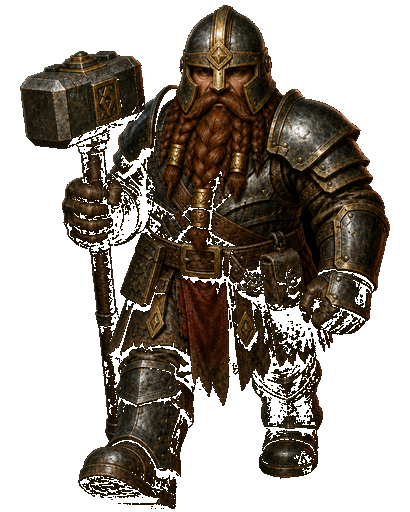
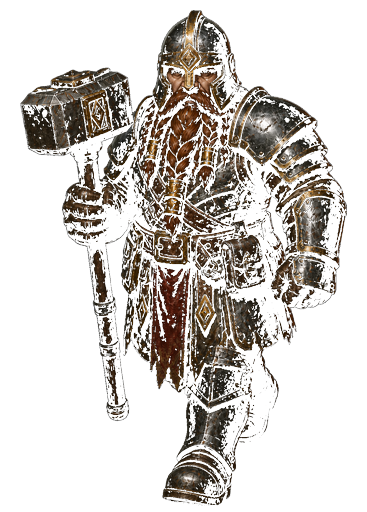
Paint Macar w1/w2 as the same facing, opposite foot (#129)
East and front walk pairs no longer swap cameras mid-stride.
w2 is a new plant on the same face, not a mirror of w1. Flip
stays heading-only on the blit.

diff --git a/src/combat/WalkFacePair.test.js b/src/combat/WalkFacePair.test.js
@@ -1,0 +1,40 @@
+'use strict';
+/**
+ * Limner walk-face gate: w1 and w2 are the same camera / facing.
+ * Only the planted boot swaps. Flip is engine-only, never a mirrored sheet.
+ * Run: node src/combat/WalkFacePair.test.js
+ */
+const fs=require('fs');
+const path=require('path');
+const {spawnSync}=require('child_process');
+
+let failed=0;
+function assert(cond, msg){
+  if(!cond){ failed++; console.error('FAIL  '+msg); }
+  else console.log('ok    '+msg);
+}
+
+const root=path.join(__dirname,'../..');
+const html=fs.readFileSync(path.join(root,'index.html'),'utf8');
+
+assert(/w1 \/ w2 are the same painted facing/.test(html),
+  'walkCycleKey documents same-face opposite-foot');
+assert(/function wantsSpriteFlip\(e\)\{/.test(html) && /moveHeadingSX\(e\) < -0\.02/.test(html),
+  'flip stays heading-only on the blit');
+assert(/blitFacing\(g,img,dx,dy,W,H,wantsSpriteFlip\(e\)\)/.test(html),
+  'heading flip is applied once per pose on the blit');
+
+const py=spawnSync('python3',[path.join(__dirname,'WalkFacePair_sheets.py')],{
+  encoding:'utf8', cwd:root
+});
+if(py.status!==0){
+  failed++;
+  console.error(py.stdout||'');
+  console.error(py.stderr||'');
+  console.error('FAIL  sheet pair python gate');
+}else{
+  process.stdout.write(py.stdout||'');
+}
+
+if(failed){ console.error('\n'+failed+' failed'); process.exit(1); }
+console.log('\nwalk face-pair checks passed');

diff --git a/index.html b/index.html
@@ -245,6 +245,8 @@ function gaitAdvance(e,dt){ e.gait=(e.gait||0)+Math.max(0,dt)*3.35; }
    and ping-ponged Macar left/right on a straight D walk. Flip is heading
    only (west = east sheet flipped once), never per frame. */
 function walkCycleKey(e, stem){
+  /* w1 / w2 are the same painted facing. Only the planted boot swaps.
+     Flip is heading-only on the blit (wantsSpriteFlip) — never by swapping sheets. */
   if(!stem) return null;
   const w1=sprReady(stem+'_w1')?stem+'_w1':null;
   const w2=sprReady(stem+'_w2')?stem+'_w2':null;

diff --git a/src/combat/WalkFacePair_sheets.py b/src/combat/WalkFacePair_sheets.py
@@ -1,0 +1,45 @@
+#!/usr/bin/env python3
+"""w1/w2 must share a facing. w2 is not a horizontal flip of w1."""
+from pathlib import Path
+from PIL import Image
+import numpy as np
+import sys
+
+root=Path(__file__).resolve().parents[2]
+failed=0
+
+def assert_(cond, msg):
+    global failed
+    if not cond:
+        failed+=1
+        print('FAIL  '+msg)
+    else:
+        print('ok    '+msg)
+
+def mask(path, size=(96,128)):
+    im=Image.open(path).convert('RGBA').resize(size, Image.Resampling.BILINEAR)
+    a=np.array(im)
+    return (a[:,:,3]>40).astype(np.float32)
+
+def corr(a,b):
+    a=a-a.mean(); b=b-b.mean()
+    d=(np.sqrt((a**2).sum())*np.sqrt((b**2).sum())) or 1.0
+    return float((a*b).sum()/d)
+
+def check_pair(a_name, b_name, label):
+    a=root/'assets'/'creatures'/a_name
+    b=root/'assets'/'creatures'/b_name
+    assert_(a.is_file() and b.is_file(), label+': both sheets on disk')
+    ma,mb=mask(a),mask(b)
+    same=corr(ma,mb)
+    flipped=corr(np.fliplr(ma), mb)
+    assert_(same>flipped, f'{label}: unflipped pair matches more than a mirror ({same:.3f}>{flipped:.3f})')
+    assert_(flipped<0.55, f'{label}: w2 is not a painted mirror of w1 (flip corr {flipped:.3f})')
+    assert_(same>0.55, f'{label}: w1/w2 share a silhouette / camera (corr {same:.3f})')
+
+check_pair('dwarf_macar_e_w1.png','dwarf_macar_e_w2.png','east D-walk')
+check_pair('dwarf_macar_w1.png','dwarf_macar_w2.png','front plant')
+
+if failed:
+    print(f'\n{failed} failed')
+    sys.exit(1)
